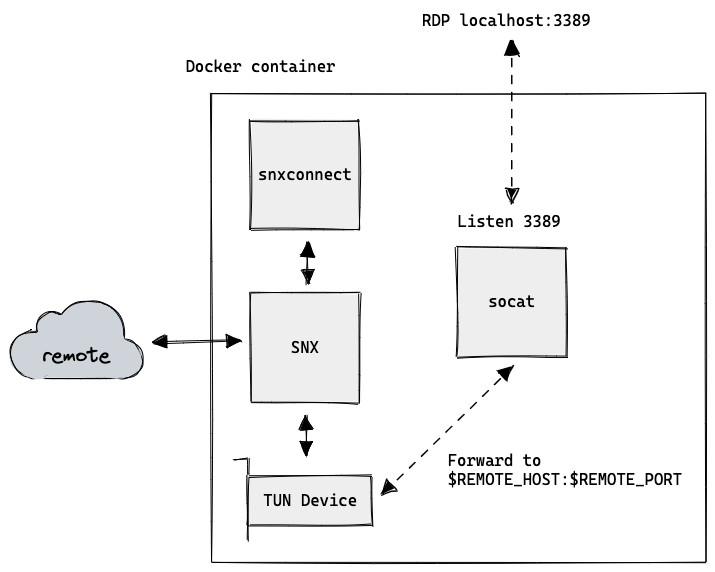
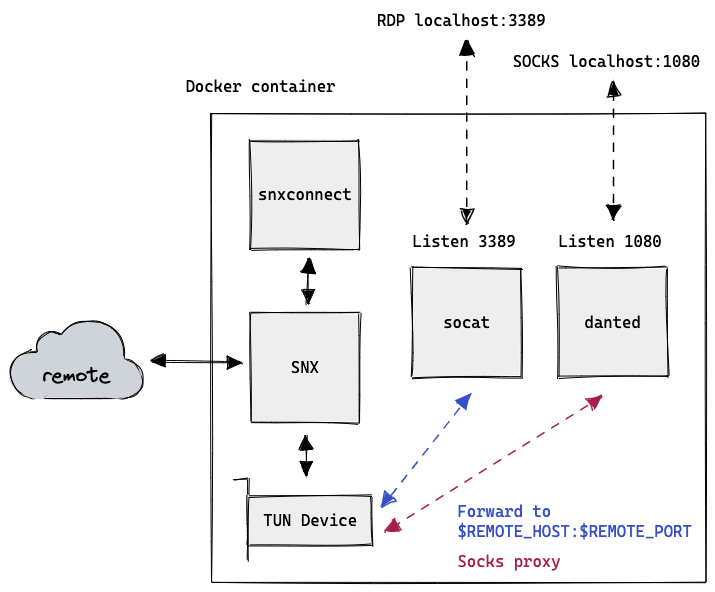
Add dante socks proxy

diff --git a/README.md b/README.md
@@ -1,7 +1,7 @@
 # SNX RDP Proxy
 
 Sets up environment where [`snxconnect`](https://github.com/schlatterbeck/snxvpn) works.
-Forwards incoming connections on port 3389 to `REMOTE_HOST`.
+Forwards incoming connections on port 3389 to `REMOTE_HOST` and hosts a SOCKS proxy on port 1080.
 
 Usage:
 
@@ -9,7 +9,7 @@ Usage:
 - Start with
 
   ```sh
-  docker run -p 3389:3389 --rm --name snx --privileged -it --env-file .env goshaza/snx-rdp-proxy
+  docker run --rm --name snx -p 3389:3389 -p 1080:1080 --privileged -it --env-file .env goshaza/snx-rdp-proxy
   ```
 
 - Fill in password (if not in .env)
@@ -17,6 +17,11 @@ Usage:
   _Note that since snxvpn uses `getpass` the input not visible_.
 - Connect with RDP to localhost:3389
 - After you've confirmed it works you can type <kbd>Ctrl</kbd> + <kbd>P</kbd> <kbd>Ctrl</kbd> + <kbd>Q</kbd> in the terminal window to detach and leave it running in the background.
+- Open a chrome instance with proxy set up with
+
+  ```sh
+  open -na "Google Chrome" --args --proxy-server=socks5://localhost:1080 --no-setup --user-data-dir=$HOME/proxy-user
+  ```
 
 ## Notes
 
